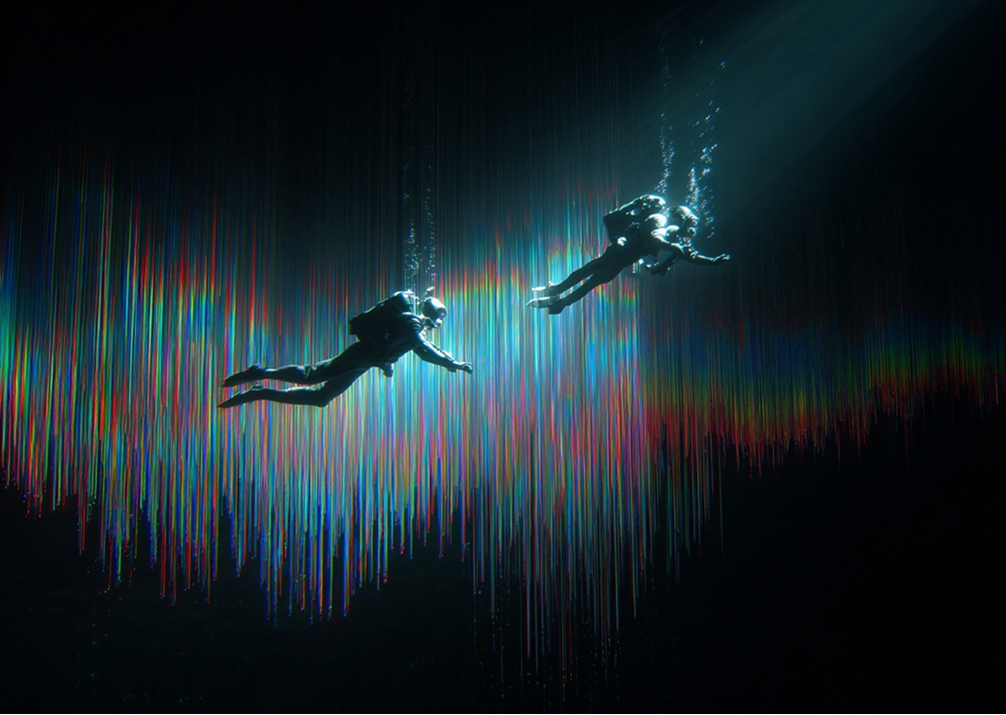
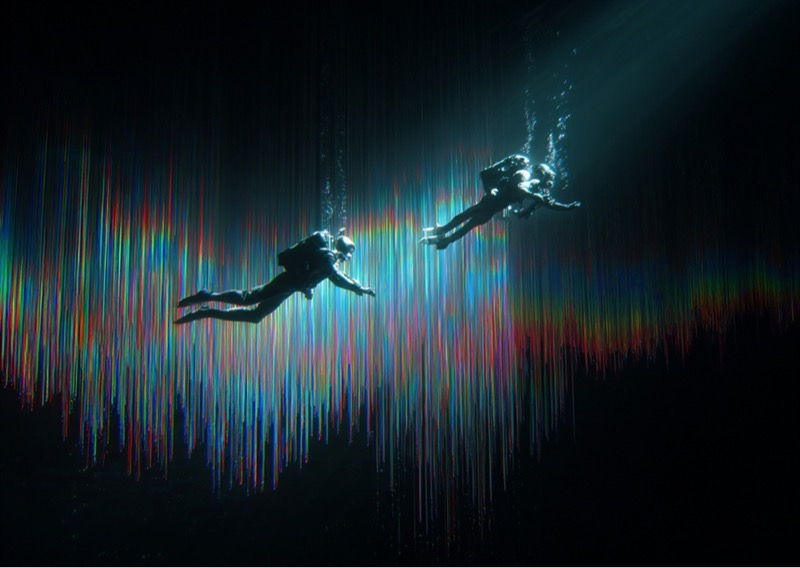
Refactor landing page components and improve image handling
- Updated landing page components to enhance image loading strategies, including lazy loading and responsive attributes.
- Implemented a picture element for better image format support and adjusted dimensions for various images.
- Refactored analytics initialization to defer execution based on user interactions, optimizing performance.
- Improved accessibility features by adding appropriate attributes to images and elements.
- Updated configuration to ensure proper app readiness after hydration.

diff --git a/app/components/landing/LandingHome.vue b/app/components/landing/LandingHome.vue
@@ -2,15 +2,18 @@
   <main ref="mainRef" class="bg-[#101214] relative z-10">
     <LandingHeader />
     <section id="hero" class="relative min-h-[50dvh] h-[calc(65dvh-80px)] px-4 sm:px-8 lg:px-20 overflow-hidden after:h-20 after:w-full after:bottom-0 after:left-0 after:absolute after:pointer-events-none after:bg-gradient-to-b after:from-[#101214]/0 after:to-[#101214] after:content-[''] after:z-[1]">
-      <img
-        src="/images/landing/glaucus-bg-hero-waves.jpg"
-        alt=""
-        width="3456"
-        height="3850"
-        fetchpriority="high"
-        decoding="async"
-        class="pointer-events-none absolute inset-0 h-full w-full object-cover object-top"
-      >
+      <picture>
+        <source type="image/webp" srcset="/images/landing/glaucus-bg-hero-waves.webp">
+        <img
+          src="/images/landing/glaucus-bg-hero-waves.jpg"
+          alt=""
+          width="1149"
+          height="1280"
+          fetchpriority="high"
+          decoding="async"
+          class="pointer-events-none absolute inset-0 h-full w-full object-cover object-top"
+        >
+      </picture>
       <div class="relative z-[2] grid grid-cols-12 gap-4 items-center h-full">
         <div class="col-span-12 lg:col-span-8 lg:col-start-3">
           <div class="flex flex-col gap-2">
@@ -99,8 +102,8 @@
           <img
             src="/images/landing/glaucus-bg-whatisglaucus.jpg"
             alt=""
-            width="1797"
-            height="1920"
+            width="1198"
+            height="1280"
             loading="lazy"
             decoding="async"
             class="h-full w-full object-cover object-top-right sm:object-top"
@@ -230,10 +233,11 @@
 
 <script setup>
 import gsap from 'gsap'
-import { computed, nextTick, onBeforeMount, onMounted, onUnmounted, ref, shallowRef } from 'vue'
-import ChatComposer from '~/components/chat/ChatComposer.vue'
+import { computed, defineAsyncComponent, nextTick, onBeforeMount, onMounted, onUnmounted, ref, shallowRef } from 'vue'
 
-const { posts: blogPosts, pending: blogPending } = useBlogPosts(() => ({ limit: 5 }))
+const ChatComposer = defineAsyncComponent(() => import('~/components/chat/ChatComposer.vue'))
+
+const { posts: blogPosts, pending: blogPending } = useBlogPosts(() => ({ limit: 5, clientOnly: true }))
 
 useSeoMeta({
   title: 'Your scuba life, simplified',
@@ -247,7 +251,8 @@ useHead({
     {
       rel: 'preload',
       as: 'image',
-      href: '/images/landing/glaucus-bg-hero-waves.jpg',
+      href: '/images/landing/glaucus-bg-hero-waves.webp',
+      type: 'image/webp',
       fetchpriority: 'high'
     }
   ]

diff --git a/app/composables/useBlogPosts.ts b/app/composables/useBlogPosts.ts
@@ -5,6 +5,8 @@ export type UseBlogPostsOptions = {
   limit?: number | null
   slug?: string
   includeDrafts?: boolean
+  /** Skip Supabase fetch during SSR (e.g. landing page blog strip). */
+  clientOnly?: boolean
 }
 
 function mapCard (row: Record<string, unknown>): BlogPostCard {
@@ -35,6 +37,7 @@ type OptionsInput = UseBlogPostsOptions | (() => UseBlogPostsOptions)
 export function useBlogPosts (options: OptionsInput = {}) {
   const { client } = useSupabase()
   const resolved = computed(() => (typeof options === 'function' ? options() : options))
+  const skipServer = (typeof options === 'function' ? options() : options).clientOnly === true
 
   const { data, pending, error, refresh } = useAsyncData(
     () => {
@@ -79,7 +82,10 @@ export function useBlogPosts (options: OptionsInput = {}) {
       const posts = (rows ?? []).map(r => mapCard(r as Record<string, unknown>))
       return { post: null as BlogPost | null, posts }
     },
-    { watch: [resolved] }
+    {
+      watch: [resolved],
+      server: !skipServer
+    }
   )
 
   const post = computed(() => data.value?.post ?? null)

diff --git a/app/utils/deferAnalyticsInit.ts b/app/utils/deferAnalyticsInit.ts
@@ -39,9 +39,10 @@ export function scheduleDeferredAnalyticsInit (callback: () => void) {
   window.addEventListener('scroll', onInteraction, { once: true, capture: true, passive: true })
   window.addEventListener('touchstart', onInteraction, { once: true, capture: true, passive: true })
 
+  // Do not auto-init on idle — Lighthouse lab runs rarely interact; defer keeps third-party JS off the critical path.
   if ('requestIdleCallback' in window) {
-    window.requestIdleCallback(() => runDeferredAnalyticsInits(), { timeout: 4000 })
+    window.requestIdleCallback(() => runDeferredAnalyticsInits(), { timeout: 30000 })
   } else {
-    window.setTimeout(() => runDeferredAnalyticsInits(), 4000)
+    window.setTimeout(() => runDeferredAnalyticsInits(), 30000)
   }
 }

diff --git a/app/components/landing/LandingContentSlide.vue b/app/components/landing/LandingContentSlide.vue
@@ -4,7 +4,21 @@
     :class="fill ? 'h-full w-full' : 'w-xs md:w-sm lg:w-md xl:w-lg'"
   >
     <div class="relative flex items-center justify-center">
-      <img class="z-0 block aspect-video" :src="image" :alt="imageAlt" />
+      <img
+        v-if="image"
+        class="z-0 block aspect-video w-full object-cover"
+        :src="image"
+        :alt="imageAlt"
+        width="800"
+        height="450"
+        loading="lazy"
+        decoding="async"
+      >
+      <div
+        v-else
+        class="z-0 block aspect-video w-full bg-zinc-900"
+        aria-hidden="true"
+      />
       <div
         class="pointer-events-none absolute inset-0 z-10 bg-linear-to-b from-[#101214]/0 to-[#101214]"
         aria-hidden="true"

diff --git a/app/plugins/00.glaucus-app-ready.client.ts b/app/plugins/00.glaucus-app-ready.client.ts
@@ -1,14 +1,8 @@
-/** Reveal #__nuxt after the app mounts — do not wait for window.load (below-fold images blocked LCP). */
+/** Ensures glaucus-app-ready is set after hydration (inline head script sets it for SSR first paint). */
 export default defineNuxtPlugin((nuxtApp) => {
-  const markReady = () => {
-    document.documentElement.classList.add('glaucus-app-ready')
-  }
+  document.documentElement.classList.add('glaucus-app-ready')
 
   nuxtApp.hook('app:mounted', () => {
-    requestAnimationFrame(() => {
-      markReady()
-    })
+    document.documentElement.classList.add('glaucus-app-ready')
   })
-
-  setTimeout(markReady, 10000)
 })

diff --git a/nuxt.config.ts b/nuxt.config.ts
@@ -9,7 +9,12 @@ export default defineNuxtConfig({
       style: [
         {
           id: 'glaucus-boot',
-          innerHTML: `html,body{margin:0;background-color:#000;color:#fff}html:not(.glaucus-app-ready) #__nuxt{visibility:hidden}`
+          innerHTML: 'html,body{margin:0;background-color:#000;color:#fff}'
+        }
+      ],
+      script: [
+        {
+          innerHTML: 'document.documentElement.classList.add("glaucus-app-ready")'
         }
       ]
     }

diff --git a/app/components/landing/LandingFooter.vue b/app/components/landing/LandingFooter.vue
@@ -25,8 +25,8 @@
       <img
         src="/images/landing/glaucus-bg-footer.jpg"
         alt=""
-        width="3456"
-        height="2430"
+        width="1280"
+        height="900"
         loading="lazy"
         decoding="async"
         class="h-full w-full object-cover object-bottom-right lg:object-top"
